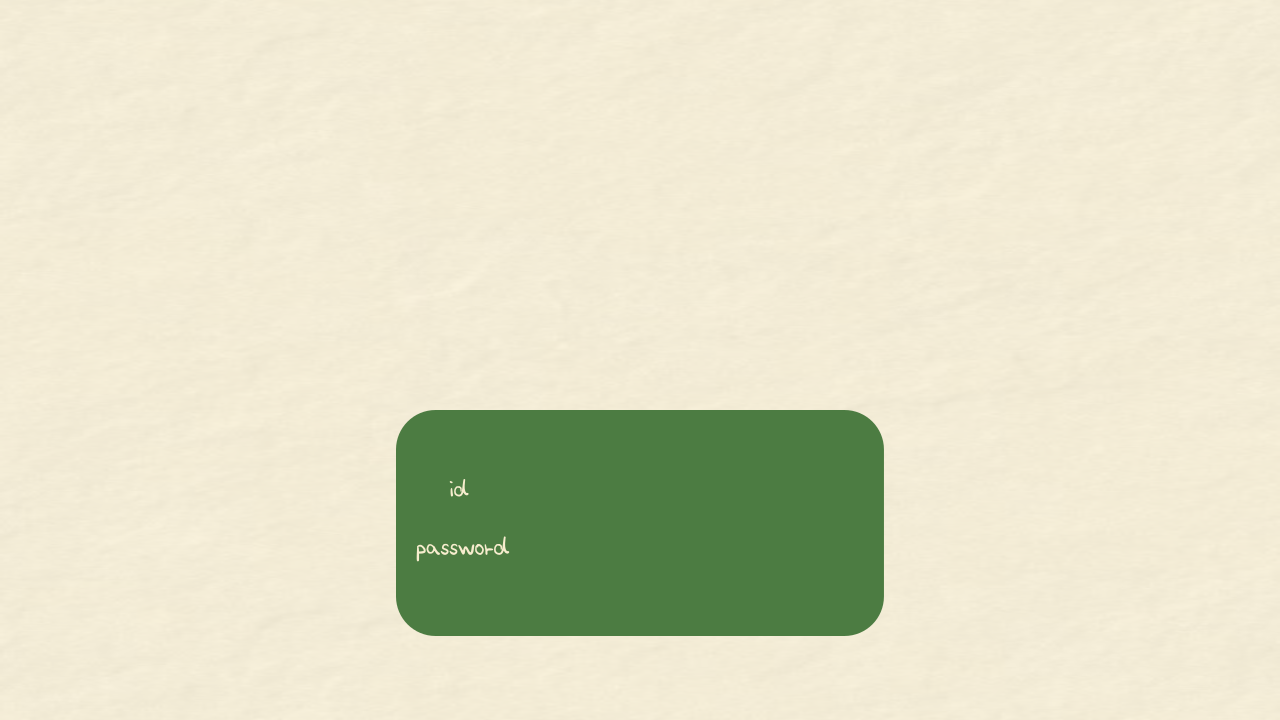
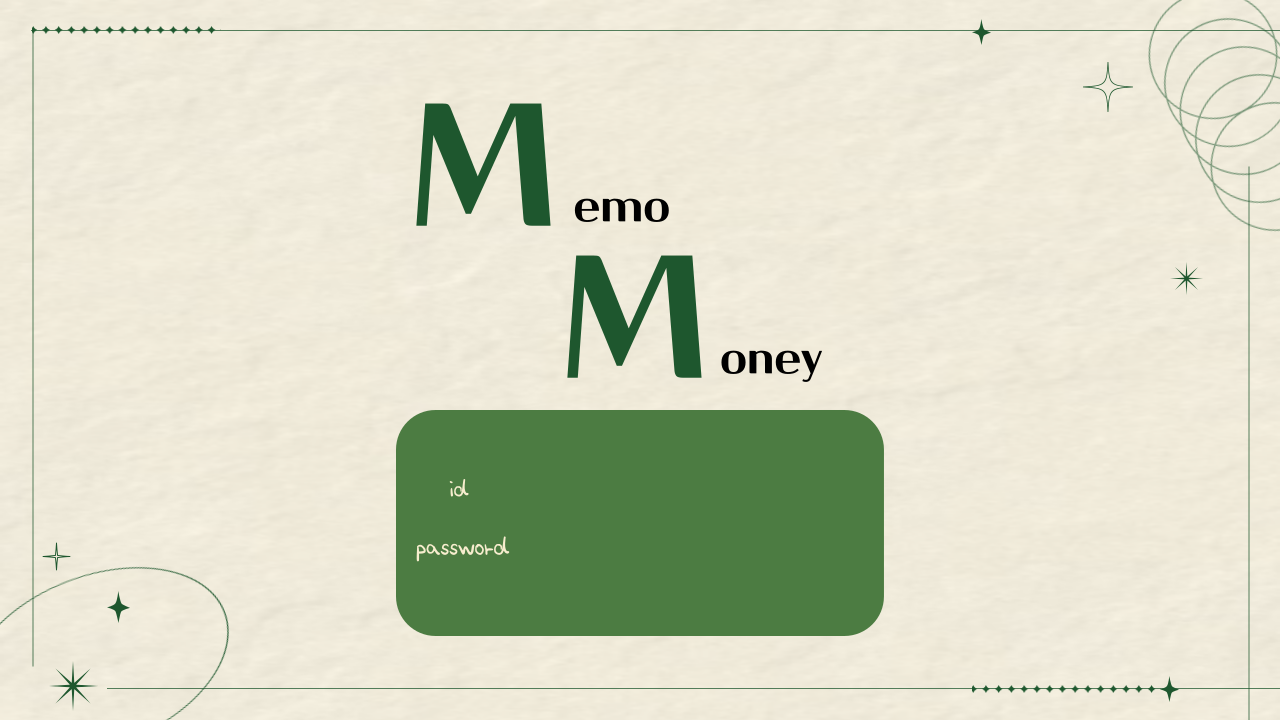
로그인 구현

diff --git a/MemoMoney/src/MemoMoney/MainFrame.java b/MemoMoney/src/MemoMoney/MainFrame.java
@@ -12,9 +12,8 @@ public class MainFrame extends JFrame {
 	JPasswordField pw = new JPasswordField();
 	
 	/* Button */
-	JButton loginBtn = new JButton("로그인");
-	JButton joinBtn = new JButton("회원가입");
-	JButton exitBtn = new JButton("프로그램 종료");
+	JButton loginBtn = new JButton();
+	JButton joinBtn = new JButton();
 	
 	static JPanel p1 = new JPanel() {
 		Image background = new ImageIcon(MainFrame.class.getResource("../Image/Login.png")).getImage(); 
@@ -25,10 +24,16 @@ public class MainFrame extends JFrame {
 		}
 	};
 	
+	ImageIcon loginbtn = new ImageIcon(MainFrame.class.getResource("../Image/login_btn.png"));
+	ImageIcon joinbtn = new ImageIcon(MainFrame.class.getResource("../Image/signup_btn.png"));
+	
+	
 	Operator o = null;
 	
 	MainFrame(Operator _o){
 		o = _o;
+		
+		setTitle("MemoMoney");
 		
 		/* TextField 크기 작업 */
 		id.setPreferredSize(new Dimension(140, 30));
@@ -49,17 +54,27 @@ public class MainFrame extends JFrame {
 		p1.add(id);
 		p1.add(pw);
 		
-		/* Button 크기 작업 */
-		loginBtn.setPreferredSize(new Dimension(75, 63));
-		joinBtn.setPreferredSize(new Dimension(135, 25));
-		exitBtn.setPreferredSize(new Dimension(135, 25));
-		
 		/* Button 이벤트 리스너 추가 */
 		ButtonListener bl = new ButtonListener();
-		
 		loginBtn.addActionListener(bl);
-		exitBtn.addActionListener(bl);
 		joinBtn.addActionListener(bl);
+		
+		loginBtn.setLayout(null);
+		loginBtn.setBounds(755,451,85,85);
+		joinBtn.setLayout(null);
+		joinBtn.setBounds(755,544,85,42);
+		
+		loginBtn.setIcon(loginbtn);
+		joinBtn.setIcon(joinbtn);
+		
+		loginBtn.setContentAreaFilled(false);
+		joinBtn.setContentAreaFilled(false);
+		
+		loginBtn.setBorderPainted(false);
+		joinBtn.setBorderPainted(false);
+		
+		p1.add(loginBtn);
+		p1.add(joinBtn);
 		
 		p1.setBounds(0, 0, 1280, 720);//페이지1의 위치 설정
 		p1.setLayout(null);//레이아웃 설정
@@ -85,32 +100,26 @@ public class MainFrame extends JFrame {
 				upass = upass + pw.getPassword()[i];
 			}
 			
-			/* 프로그램 종료 버튼 이벤트 */
-			if(b.getText().equals("프로그램 종료")) {
-				System.out.println("프로그램 종료");
-				System.exit(0);
-			}
-			
 			/* 회원가입 버튼 이벤트 */
-			else if(b.getText().equals("회원가입")) {
+			if(e.getSource()==joinBtn) {
 				
 			}
 			
 			/* 로그인 버튼 이벤트 */
-			else if(b.getText().equals("로그인")) {
+			else if(e.getSource()==loginBtn) {
 				if(uid.equals("") || upass.equals("")) {
 					JOptionPane.showMessageDialog(null, "아이디와 비밀번호 모두 입력해주세요", "로그인 실패", JOptionPane.ERROR_MESSAGE);
 					System.out.println("로그인 실패 > 로그인 정보 미입력");
 				}
 				
 				else if(uid != null && upass != null) {
-//					if(o.db.logincheck(uid, upass)) {	//이 부분이 데이터베이스에 접속해 로그인 정보를 확인하는 부분이다.
-//						System.out.println("로그인 성공");
-//						JOptionPane.showMessageDialog(null, "로그인에 성공하였습니다");
-//					} else {
-//						System.out.println("로그인 실패 > 로그인 정보 불일치");
-//						JOptionPane.showMessageDialog(null, "로그인에 실패하였습니다");
-//					}
+					if(o.db.logincheck(uid, upass)) {	//이 부분이 데이터베이스에 접속해 로그인 정보를 확인하는 부분이다.
+						System.out.println("로그인 성공");
+						JOptionPane.showMessageDialog(null, "로그인에 성공하였습니다");
+					} else {
+						System.out.println("로그인 실패 > 로그인 정보 불일치");
+						JOptionPane.showMessageDialog(null, "로그인에 실패하였습니다");
+					}
 				}
 			}
 		}

diff --git a/MemoMoney/src/MemoMoney/Operator.java b/MemoMoney/src/MemoMoney/Operator.java
@@ -4,10 +4,12 @@ import MemoMoney.MainFrame;
 import MemoMoney.Operator;
 
 public class Operator {
+	Database db = null;
 	MainFrame mf = null;
 	
-	public static void main(String[] args) {   
+	public static void main(String[] args) {
 		Operator opt = new Operator();
+		opt.db = new Database();
 		opt.mf = new MainFrame(opt);
-	}  
+	}
 }
